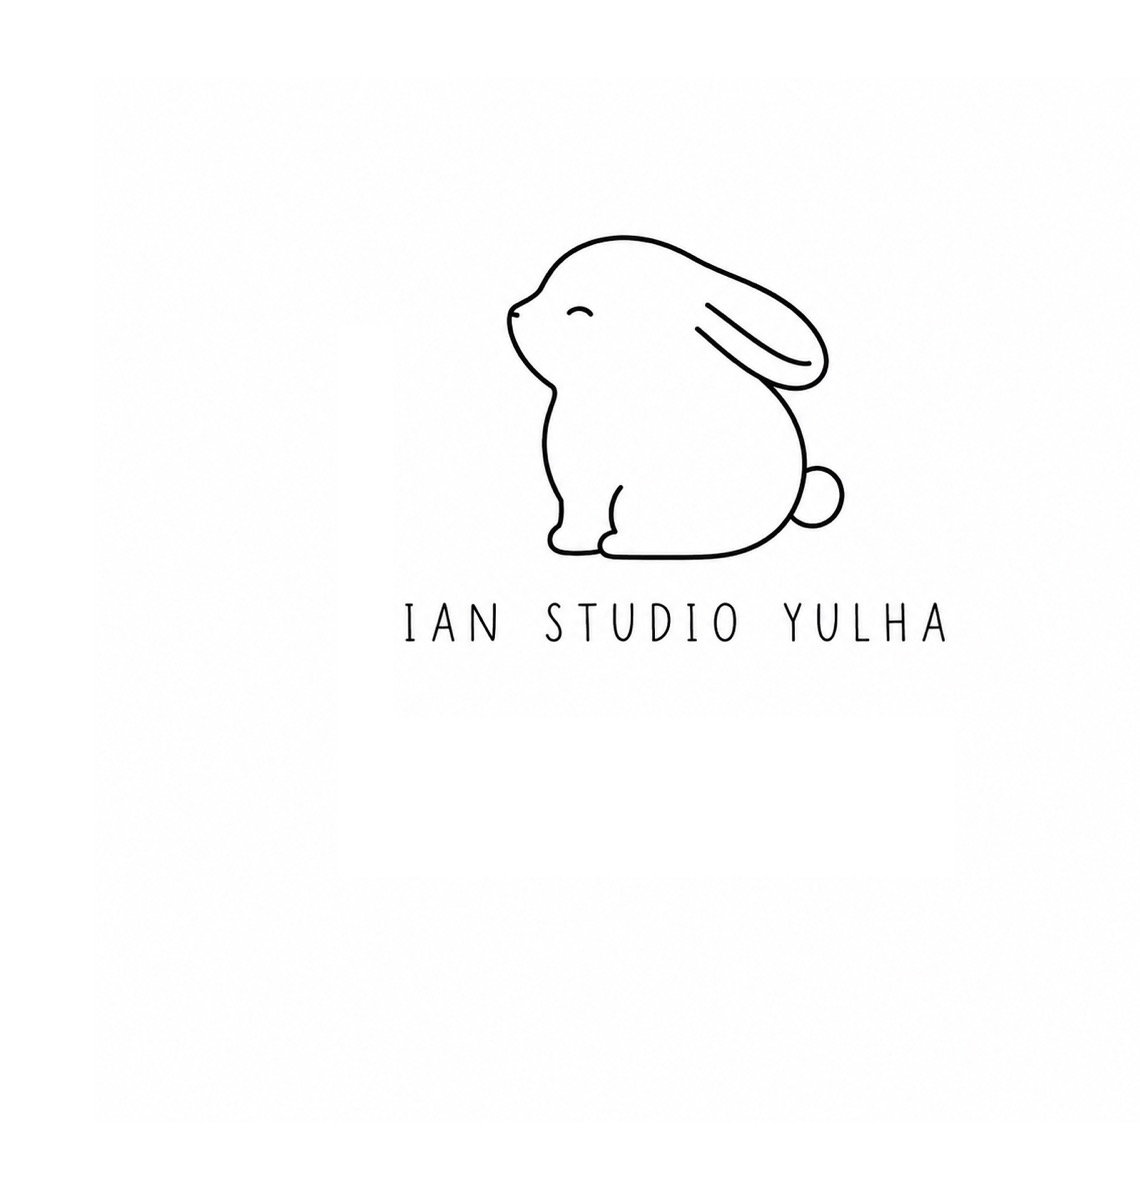
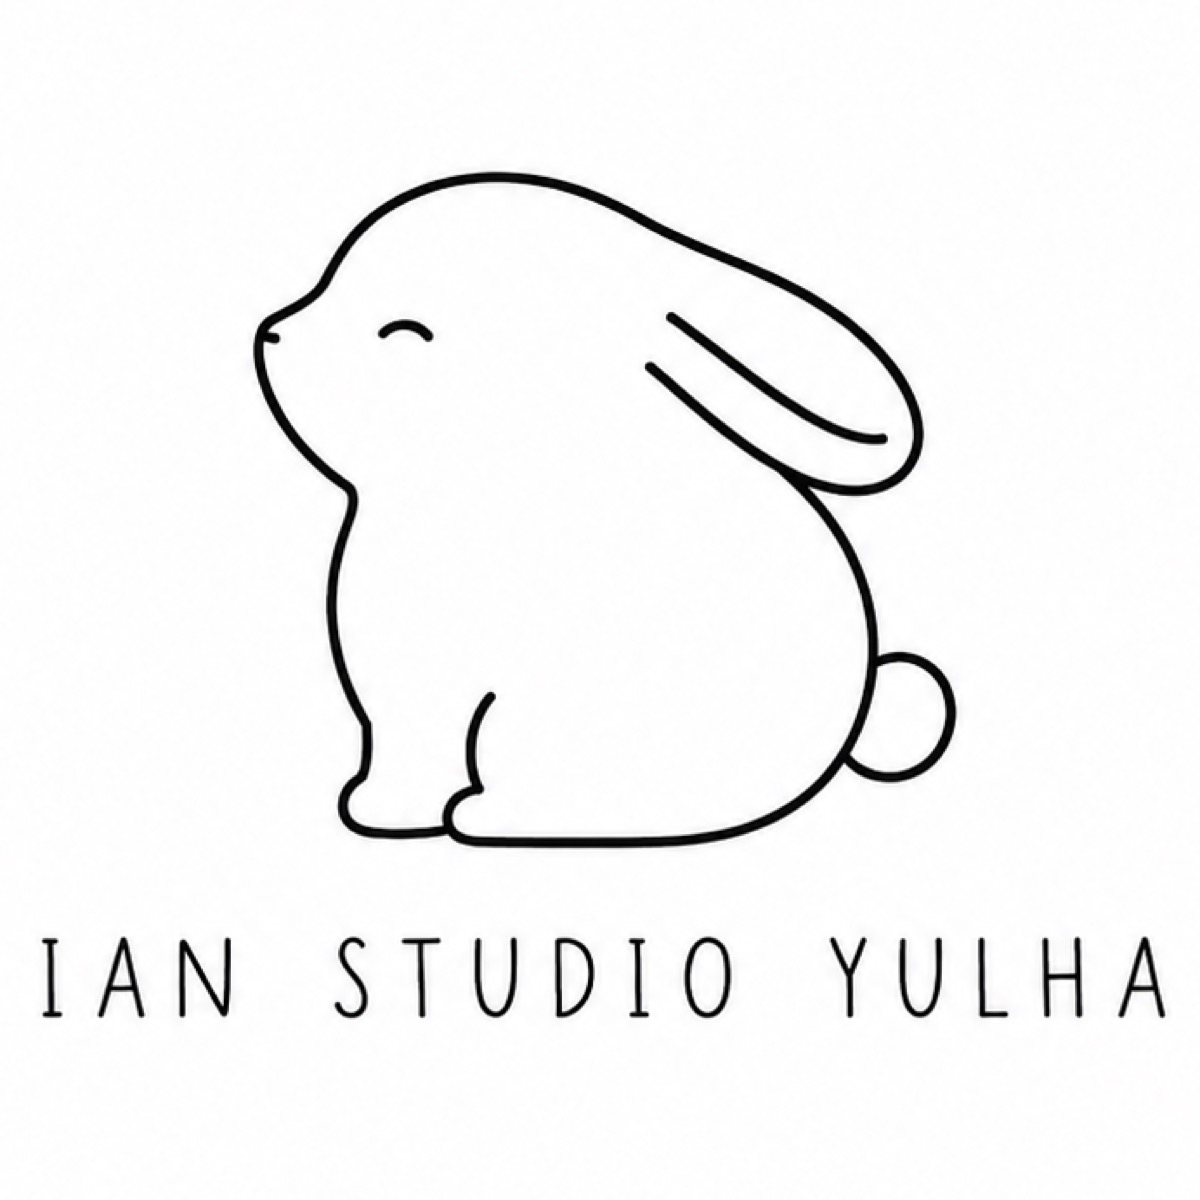
히어로 이미지 교체(토끼+타이포) + figure 섀도우 제거

diff --git a/index.html b/index.html
@@ -120,7 +120,6 @@
   .hero figure {
     position: relative;
     border-radius: 18px; overflow: hidden;
-    box-shadow: 0 24px 60px rgba(43,43,43,0.14);
     aspect-ratio: 4/5;
     background: #fff;
   }
